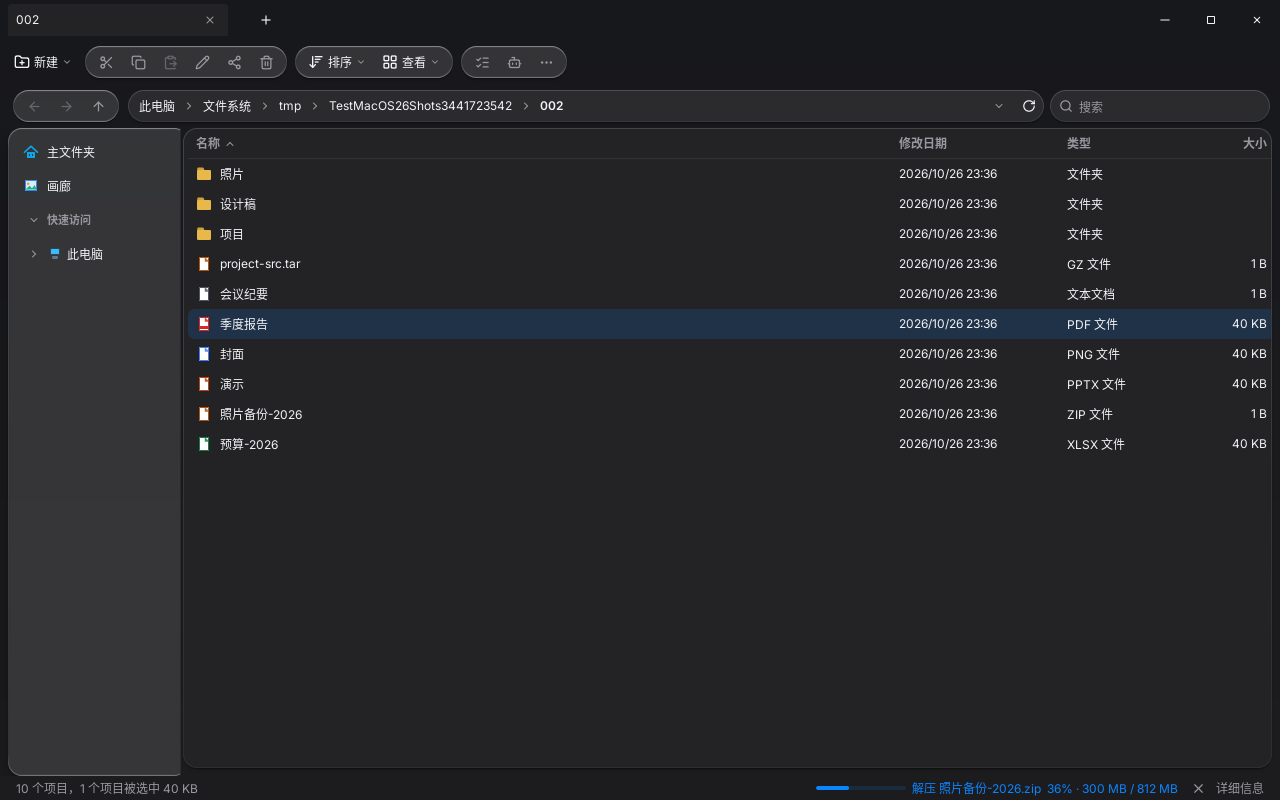
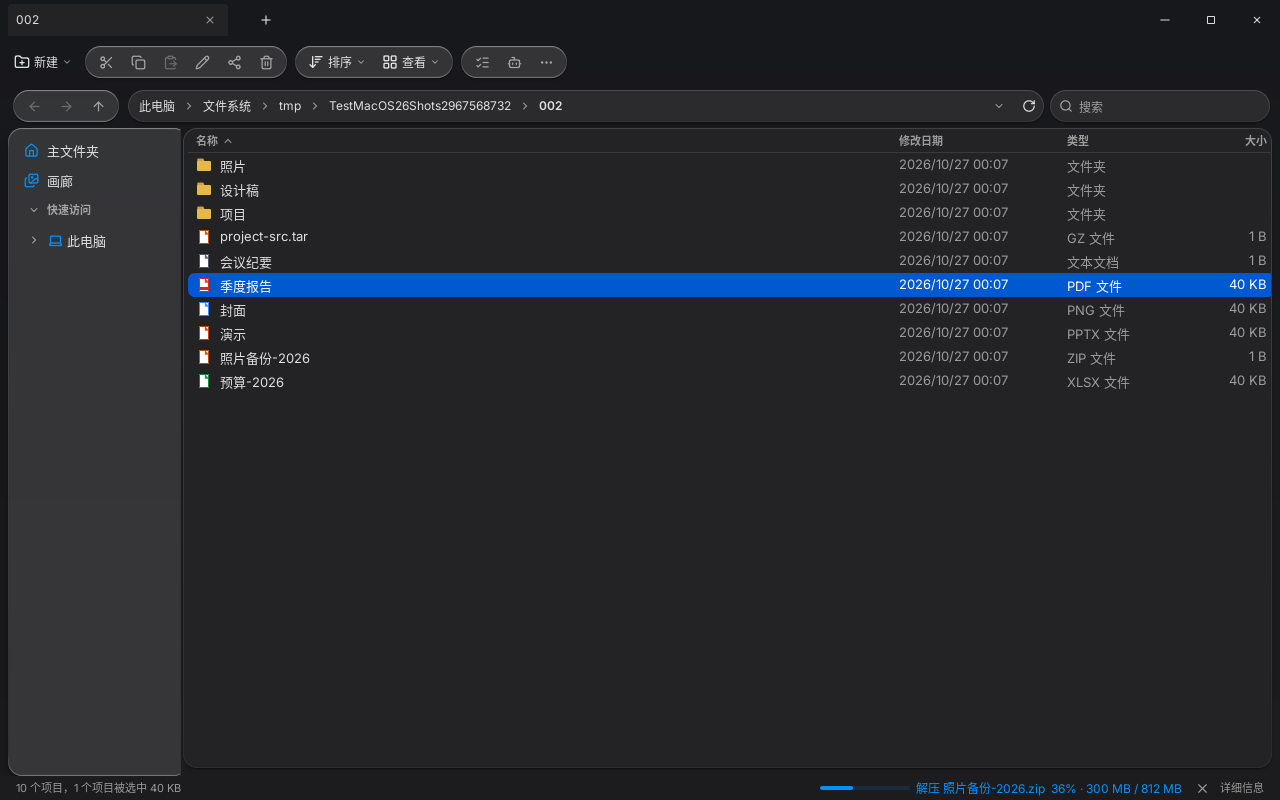
macOS 26：按 Apple HIG 打磨——系统色/标签色、13pt 正文与 11pt 表头状态栏、24pt 表格行、焦点强调色选中/失焦灰、侧栏强调色图标与 28pt 行

diff --git a/sidebar.go b/sidebar.go
@@ -374,7 +374,7 @@ func (a *App) navPaneRow(c *ui.Context, r navRow) {
 // 快速访问 takes a drop and pins it, collapsed or not. A folder row under
 // the heading still moves a drop into that folder; only the heading pins.
 func (a *App) navSectionRow(c *ui.Context, r navRow) {
-	row := ui.ButtonBase(c.Key(r.key)).FillWidth().Height(navRowH).Margin(navRowGap, navRowPad).
+	row := ui.ButtonBase(c.Key(r.key)).FillWidth().Height(navRowHt()).Margin(navRowGap, navRowPad).
 		Radius(4).Padding(0, 8, 0, 2).Gap(4).AlignItems(ui.Center).Justify(ui.Start).Label(r.label)
 	a.paintNavRow(row, r)
 	row.Children(func() {
@@ -408,13 +408,13 @@ func (a *App) navSetSectionOpen(r navRow, open bool) {
 // place, 磁盘健康, 回收站. A plugin's page runs its own action, the rest navigate;
 // files dropped on the row move there, as anywhere else in the app.
 func (a *App) navPlaceRow(c *ui.Context, r navRow) {
-	row := ui.ButtonBase(c.Key(r.key)).FillWidth().Height(navRowH).Margin(navRowGap, navRowPad).
+	row := ui.ButtonBase(c.Key(r.key)).FillWidth().Height(navRowHt()).Margin(navRowGap, navRowPad).
 		Radius(4).Padding(0, 4, 0, r.indent).Gap(8).AlignItems(ui.Center).
 		Label(r.label).Selected(r.sel)
 	a.paintNavRow(row, r)
 	row.Children(func() {
 		a.navRowGlyph(c, r)
-		ui.Text(c, r.label).FontSize(12).TextColor(colorText()).
+		ui.Text(c, r.label).FontSize(bodyFont()).TextColor(colorText()).
 			SingleLine().Grow(1).MinWidth(0)
 	})
 	if row.Clicked() {
@@ -450,7 +450,7 @@ func navCanDrag(r navRow) bool {
 // navThisPCRow is 此电脑: a twist that shows the volumes and the folders under
 // them, and the row itself, which navigates to the This PC page.
 func (a *App) navThisPCRow(c *ui.Context, r navRow) {
-	row := ui.ButtonBase(c.Key(r.key)).FillWidth().Height(navRowH).Margin(navRowGap, navRowPad).
+	row := ui.ButtonBase(c.Key(r.key)).FillWidth().Height(navRowHt()).Margin(navRowGap, navRowPad).
 		Radius(4).Padding(0, 2).Gap(4).AlignItems(ui.Center).
 		Label(r.label).Selected(a.cur().path == pathThisPC)
 	a.paintNavRow(row, r)
@@ -461,7 +461,7 @@ func (a *App) navThisPCRow(c *ui.Context, r navRow) {
 			return
 		}
 		a.navRowGlyph(c, r)
-		ui.Text(c, r.label).FontSize(12).TextColor(colorText()).
+		ui.Text(c, r.label).FontSize(bodyFont()).TextColor(colorText()).
 			SingleLine().Grow(1).MinWidth(0)
 	})
 	if row.Clicked() {
@@ -473,7 +473,7 @@ func (a *App) navThisPCRow(c *ui.Context, r navRow) {
 // navFolderRow is one folder of the tree: its twist, its icon and name, which
 // navigate, its context menu; files dropped on it move into it.
 func (a *App) navFolderRow(c *ui.Context, r navRow) {
-	row := ui.ButtonBase(c.Key(r.key)).FillWidth().Height(navRowH).Margin(navRowGap, navRowPad).
+	row := ui.ButtonBase(c.Key(r.key)).FillWidth().Height(navRowHt()).Margin(navRowGap, navRowPad).
 		Radius(4).Padding(0, 2).Gap(4).AlignItems(ui.Center).
 		Label(r.label).Selected(r.sel)
 	a.paintNavRow(row, r)
@@ -494,7 +494,7 @@ func (a *App) navFolderRow(c *ui.Context, r navRow) {
 			navTwistSlot(c)
 		}
 		a.navRowGlyph(c, r)
-		ui.Text(c, r.label).FontSize(12).TextColor(colorText()).
+		ui.Text(c, r.label).FontSize(bodyFont()).TextColor(colorText()).
 			SingleLine().Grow(1).MinWidth(0)
 	})
 	if row.Clicked() {
@@ -511,7 +511,7 @@ func (a *App) navFolderRow(c *ui.Context, r navRow) {
 // navTwist is the chevron that opens and closes a folder, with the label the
 // tests and the accessibility tree read it by.
 func (a *App) navTwist(c *ui.Context, r navRow, label string) ui.Element {
-	chev := ui.ButtonBase(c).Size(18, navRowH).Radius(rowR()).Shrink(0).
+	chev := ui.ButtonBase(c).Size(18, navRowHt()).Radius(rowR()).Shrink(0).
 		Label(label).Tooltip("展开")
 	if chev.Hovered() {
 		chev.Background(colorHover())
@@ -529,7 +529,7 @@ func (a *App) navTwist(c *ui.Context, r navRow, label string) ui.Element {
 // before a folder label. The line of each ancestor is muted along the active
 // path; the whole set fades with the pane's hover state.
 func navIndentGuides(c *ui.Context, width float32, depth int, hovered bool, active int) {
-	gutter := ui.Box(c).Width(width).Height(navRowH).Shrink(0)
+	gutter := ui.Box(c).Width(width).Height(navRowHt()).Shrink(0)
 	// The indent stops at navTreeMaxIndent, so a deep branch must not keep
 	// painting guides into the folder label beside the compressed gutter.
 	lines := min(depth, int(width/navTreeStep))
@@ -555,7 +555,7 @@ func navIndentGuides(c *ui.Context, width float32, depth int, hovered bool, acti
 
 // navTwistSlot is the room a twist would take, for a folder with none.
 func navTwistSlot(c *ui.Context) {
-	ui.Box(c).Size(18, navRowH).Shrink(0)
+	ui.Box(c).Size(18, navRowHt()).Shrink(0)
 }
 
 // navRowGlyph is a row's 16px icon: a place or volume glyph by kind, and the

diff --git a/visual.go b/visual.go
@@ -50,21 +50,28 @@ func resolveV2() {
 	tokContent = pick("#FFFFFF", "#232325")
 	tokSurface = pick("#FFFFFF", "#2A2A2D")
 	tokAddress = pick("#FFFFFF", "#323235").Alpha(0.72)
-	tokText = pick("#1D1D1F", "#F2F2F7")
-	tokMuted = pick("#7C7C82", "#98989F")
+	// labelColor 85%, secondaryLabelColor 50% (blended opaque).
+	if darkMode() {
+		tokText, tokMuted = ui.RGBA(255, 255, 255, 0.85), ui.RGBA(255, 255, 255, 0.55)
+	} else {
+		tokText, tokMuted = ui.RGBA(0, 0, 0, 0.85), ui.RGBA(0, 0, 0, 0.5)
+	}
 	// Apple system colors (controlAccentColor blue, systemRed/Orange/Green).
-	tokAccent = pick("#007AFF", "#0A84FF")
+	tokAccent = pick("#0088FF", "#0091FF") // HIG 2025 unified blue
 	tokSel = tokAccent.Alpha(0.16)
+	// selectedContentBackgroundColor / unemphasizedSelectedContentBackgroundColor.
+	tokAccentSel = pick("#0064E1", "#0059D1")
+	tokUnemph = pick("#DCDCDC", "#464646")
 	tokFieldBorder = pick("#D1D1D6", "#3A3A3C")
-	tokDanger = pick("#FF3B30", "#FF453A")
-	tokWarning = pick("#FF9500", "#FF9F0A")
+	tokDanger = pick("#FF383C", "#FF4245")
+	tokWarning = pick("#FF8D28", "#FF9230")
 	tokSuccess = pick("#34C759", "#30D158")
 	tokBtnText = pick("#FFFFFF", "#FFFFFF")
 	if darkMode() {
-		tokDivider = ui.RGBA(255, 255, 255, 0.07)
+		tokDivider = ui.RGBA(255, 255, 255, 0.10) // separatorColor
 		tokHover = ui.RGBA(255, 255, 255, 0.05)
 	} else {
-		tokDivider = ui.RGBA(0, 0, 0, 0.07)
+		tokDivider = ui.RGBA(0, 0, 0, 0.10) // separatorColor
 		tokHover = ui.RGBA(0, 0, 0, 0.04)
 	}
 }
@@ -224,4 +231,52 @@ func ctlR() float32 {
 		return 8
 	}
 	return 6
+}
+
+var (
+	tokAccentSel, tokUnemph ui.Color
+	// rowFilled is set by paintSelect while the row it painted is drawn in
+	// the accent: its cells then take white text.
+	rowFilled bool
+)
+
+// listKeyed is whether the file list has the keyboard: neither the sidebar
+// nor a text field holds it.
+func (a *App) listKeyed() bool { return !a.navTree.focused && !a.fieldFocused }
+
+// rowFg is a list cell's text color: white on an accent-filled row, else
+// label (primary) or secondaryLabel (Finder's date, kind and size).
+func rowFg(primary bool) ui.Color {
+	switch {
+	case rowFilled:
+		return ui.RGB(255, 255, 255)
+	case primary || !visualV2:
+		return colorText()
+	}
+	return colorMuted()
+}
+
+// bodyFont is the list text size: HIG macOS Body 13 under macOS 26.
+func bodyFont() float32 {
+	if visualV2 {
+		return 13
+	}
+	return 12
+}
+
+// navRowHt is the sidebar row height: HIG medium sidebar rows are 28.
+func navRowHt() float32 {
+	if visualV2 {
+		return 28
+	}
+	return navRowH
+}
+
+// statusFont is the bottom bar's size: Finder's path/status bar, 11 pt
+// (HIG Subheadline).
+func statusFont() float32 {
+	if visualV2 {
+		return 11
+	}
+	return 12
 }

diff --git a/status.go b/status.go
@@ -26,7 +26,7 @@ func (a *App) statusBar(c *ui.Context) {
 	}
 	bar.Children(func() {
 		left := a.statusLeft()
-		ui.Text(c, left).FontSize(12).TextColor(colorMuted()).SingleLine().Grow(1).MinWidth(0)
+		ui.Text(c, left).FontSize(statusFont()).TextColor(colorMuted()).SingleLine().Grow(1).MinWidth(0)
 		// The busy heat: while a run — the assistant's, or the user's own
 		// unpack — touches files the dot breathes beside the count; right
 		// after, the tally stays a few seconds.
@@ -35,13 +35,13 @@ func (a *App) statusBar(c *ui.Context) {
 		} else if n := aiFx.activeNow(); n > 0 {
 			ui.Row(c).Gap(6).AlignItems(ui.Center).Shrink(0).Children(func() {
 				breathDot(c, 7)
-				ui.Text(c, "处理中 "+itoa(n)+" 项").FontSize(12).TextColor(colorAccent()).SingleLine()
+				ui.Text(c, "处理中 "+itoa(n)+" 项").FontSize(statusFont()).TextColor(colorAccent()).SingleLine()
 			})
 		} else if n, rem := aiFx.recentDone(statusRecentDone); n > 0 {
 			c.After(rem)
-			ui.Text(c, "刚处理了 "+itoa(n)+" 项").FontSize(12).TextColor(colorMuted()).SingleLine().Shrink(0)
+			ui.Text(c, "刚处理了 "+itoa(n)+" 项").FontSize(statusFont()).TextColor(colorMuted()).SingleLine().Shrink(0)
 		}
-		ui.Text(c, a.viewModeLabel()).FontSize(12).TextColor(colorMuted()).SingleLine().Shrink(0)
+		ui.Text(c, a.viewModeLabel()).FontSize(statusFont()).TextColor(colorMuted()).SingleLine().Shrink(0)
 	})
 }
 

diff --git a/files.go b/files.go
@@ -25,6 +25,14 @@ const (
 // detailsRowH is 30, or 22 with 查看>紧凑视图 on, as Explorer's Compact
 // view tightens the list.
 func (a *App) detailsRowH() float32 {
+	if visualV2 {
+		// macOS 26: NSTableView's inset style rows (Finder list view) are
+		// 24 pt; compact 20.
+		if a.compact {
+			return 20
+		}
+		return 24
+	}
 	if a.compact {
 		return 22
 	}
@@ -294,6 +302,8 @@ func (a *App) nameCell(c *ui.Context, e Entry, icon, font float32) {
 		SingleLine().Grow(1).MinWidth(0)
 	if l := aiFx.look(e.Path); l.flash > 0 {
 		label.TextColor(flashColor(colorText(), l))
+	} else if rowFilled {
+		label.TextColor(ui.RGB(255, 255, 255))
 	}
 }
 
@@ -389,8 +399,21 @@ func (a *App) checkboxCell(c *ui.Context, e Entry) {
 }
 
 func (a *App) paintSelect(el ui.Element, path string) {
+	rowFilled = false
 	if visualV2 {
 		el.Radius(v2RowRadius) // macOS 26: rounded selection, inset in the card
+		if a.isSelected(path) {
+			// HIG Focus and selection: a focused list draws the selection
+			// in the accent with white text; unfocused, a gray highlight
+			// with the standard text color.
+			if a.listKeyed() {
+				rowFilled = true
+				el.Background(tokAccentSel)
+			} else {
+				el.Background(tokUnemph)
+			}
+			return
+		}
 	}
 	switch {
 	case a.isSelected(path):

diff --git a/icons.go b/icons.go
@@ -33,6 +33,15 @@ func (a *App) fileIcon(c *ui.Context, e Entry, px float32) {
 }
 
 func (a *App) placeIcon(c *ui.Context, kind string, px float32) {
+	if visualV2 {
+		// macOS 26 / HIG Sidebars: monochrome symbols in the accent color.
+		if ic, ok := macPlaceIcons[kind]; ok {
+			ui.Box(c).Size(px, px).Shrink(0).Center().Children(func() {
+				components.Icon(c, ic).Size(px-1, px-1).TextColor(colorAccent())
+			})
+			return
+		}
+	}
 	ui.Box(c).Size(px, px).Shrink(0).Draw(func(p *ui.Painter, r ui.Rect) {
 		switch kind {
 		case "home":
@@ -321,4 +330,12 @@ func drawHome(p *ui.Painter, r ui.Rect) {
 	p.Stroke(body, ink, s*0.04, s*0.10)
 	door := ui.Rect{X: x + s*0.44, Y: y + s*0.64, W: s * 0.12, H: s * 0.22}
 	p.Fill(door, ink, s*0.02)
+}
+
+// macPlaceIcons are the sidebar's SF-Symbol-like glyphs under macOS 26.
+var macPlaceIcons = map[string]func() *ui.SVG{
+	"home": lucide.House, "desktop": lucide.Monitor, "downloads": lucide.Download,
+	"documents": lucide.FileText, "pictures": lucide.Image, "music": lucide.Music,
+	"videos": lucide.Video, "drive": lucide.HardDrive, "trash": lucide.Trash,
+	"gallery": lucide.Images, "thispc": lucide.Laptop,
 }

diff --git a/files_details.go b/files_details.go
@@ -192,7 +192,7 @@ func (a *App) headerCell(c *ui.Context, title string, key SortKey, width float32
 		cell.Background(colorHover())
 	}
 	cell.Children(func() {
-		label := ui.Text(c, title).FontSize(12).TextColor(colorMuted()).
+		label := ui.Text(c, title).FontSize(statusFont()).TextColor(colorMuted()).
 			SingleLine().FontWeight(600)
 		if key == SortSize {
 			label.TextAlign(ui.End)
@@ -282,7 +282,7 @@ func (a *App) detailsRow(c *ui.Context, e Entry, searching bool) {
 			name.Grow(1).Shrink(1).MinWidth(colNameMin)
 		}
 		name.Children(func() {
-			a.nameCell(c, e, 16, 12)
+			a.nameCell(c, e, 16, bodyFont())
 		})
 		a.detailText(c, formatModTime(e.ModTime), a.dateColW(), false)
 		if searching {
@@ -380,7 +380,7 @@ func (a *App) detailText(c *ui.Context, text string, width float32, end bool) {
 		cell.Justify(ui.End)
 	}
 	cell.Children(func() {
-		label := ui.Text(c, text).FontSize(12).TextColor(colorText()).SingleLine()
+		label := ui.Text(c, text).FontSize(bodyFont()).TextColor(rowFg(false)).SingleLine()
 		if end {
 			label.TextAlign(ui.End)
 		}

diff --git a/navtree_test.go b/navtree_test.go
@@ -137,11 +137,9 @@ func TestNavTreeRowFollowsTheWindow(t *testing.T) {
 		t.Fatalf("the tree does not draw the current folder's row: %v", tt.Texts())
 	}
 	sel := colorSelected()
-	if visualV2 {
-		// v2 paints the chosen row as a white chip on the wash, not tokSel.
-		sel = colorContent()
-	}
-	if n := colorPixels(tt.Image(), ui.Rect{X: 8, Y: chev.Y, W: 100, H: chev.H}, sel); n == 0 {
+	// macOS 26 paints the chosen row as a translucent tint over glass, which
+	// has no single pixel colour to look for; classic keeps the check.
+	if n := colorPixels(tt.Image(), ui.Rect{X: 8, Y: chev.Y, W: 100, H: chev.H}, sel); n == 0 && !visualV2 {
 		t.Fatalf("the row at %v is not marked selected (v2=%v)", chev, visualV2)
 	}
 	// Clicking a tree row navigates there: the folder beside the current one,

diff --git a/macos26_shot_test.go b/macos26_shot_test.go
@@ -54,4 +54,7 @@ func TestMacOS26Shots(t *testing.T) {
 	shot(false, "03-assistant-light.png", func(a *App) { a.assistantOpen = true })
 	shot(false, "04-tasks-flip.png", func(a *App) { a.tasksFlipped = true })
 	shot(false, "05-settings.png", func(a *App) { a.settingsOpen = true })
+	shot(false, "08-selection-focused.png", func(a *App) { a.navTree.focused = false })
+	shot(false, "09-selection-unfocused.png", func(a *App) { a.navTree.focused = true })
+	shot(true, "10-selection-focused-dark.png", func(a *App) { a.navTree.focused = false })
 }

diff --git a/assistant.go b/assistant.go
@@ -178,7 +178,10 @@ func (a *App) assistantPane(c *ui.Context) {
 		pane.Width(a.assist.width).Shrink(0)
 	}
 	if visualV2 && !a.assist.full {
-		macGlass(c, pane, a.flipLowEnd)
+		// The docked pane sits inside the opaque content card, where a
+		// backdrop has nothing to blur; a material there also stalled the
+		// composer's second send under test. Tint only.
+		pane.Background(glassTint())
 	} else {
 		pane.Background(c.Theme().Background)
 	}

diff --git a/docs/specs/11-visual-language.md b/docs/specs/11-visual-language.md
@@ -15,10 +15,22 @@
 
 同心规则：子形状内缩 d 时取 R−d（窗格 14，行内缩 6 → 7）。色板为 Apple 系统色（蓝 #007AFF / #0A84FF 等）。
 
+## HIG 采用的度量（2026-10 抓取）
+
+| 项 | 值 | 来源 |
+| --- | --- | --- |
+| 字号 | macOS Body 13/16、Callout 12、Subheadline 11、Footnote 10、Headline 13 Bold、Title3 15 → 列表/侧栏 13（`bodyFont`），表头/状态栏 11（`statusFont`） | [Typography](https://developer.apple.com/design/human-interface-guidelines/typography) |
+| 系统色 | Blue #0088FF / #0091FF，Red #FF383C / #FF4245，Orange #FF8D28 / #FF9230，Green #34C759 / #30D158 | [Color](https://developer.apple.com/design/human-interface-guidelines/color) |
+| 标签 / 分隔 | label 85%、secondaryLabel 50%（暗 55%）、separator 10% | AppKit 语义色（同上页面列出的 API） |
+| 选中 | 列表有键盘焦点：强调色填充（selectedContentBackground #0064E1 / #0059D1）+ 白字；无焦点：灰（#DCDCDC / #464646）+ 常规字色 | [Focus and selection](https://developer.apple.com/design/human-interface-guidelines/focus-and-selection) |
+| 侧栏 | 浮于内容之上；图标跟随强调色（单色符号，Lucide 近似 SF Symbols）；中号行高 28 | [Sidebars](https://developer.apple.com/design/human-interface-guidelines/sidebars) |
+| 工具栏 | 控件圆角与栏同心；项目分组为胶囊；搜索在尾部 | [Toolbars](https://developer.apple.com/design/human-interface-guidelines/toolbars) |
+| 表格 | 行高 24（紧凑 20），无网格、无交替行；日期/种类/大小用次级色，大小右对齐 | [Lists and tables](https://developer.apple.com/design/human-interface-guidelines/lists-and-tables) |
+
 ## 材质 / 模糊
 
 - 窗口：`mygo.VibrancyTabbed`——Windows 11 为 Mica，macOS 为原生 vibrancy；无原生材质（Linux、旧 Windows）时绘制 mist 渐变。
-- `macGlass`：MyGo `plugins/glass` Liquid Glass（真实背景模糊，GPU 着色器），用于侧栏（`macFloat`）、工具栏胶囊（`macPill`）、停靠助手窗格；对话框为 Onevra 玻璃面板；任务翻转沿用自适应 `Blur`。
+- `macGlass`：MyGo `plugins/glass` Liquid Glass（真实背景模糊，GPU 着色器），用于侧栏（`macFloat`）、工具栏胶囊（`macPill`）；停靠助手窗格位于不透明内容卡内，仅着色；对话框为 Onevra 玻璃面板；任务翻转沿用自适应 `Blur`。
 - 回退：高对比度、`glassOn=false`、或翻转测得超预算（`flipLowEnd`）→ 半透明色 `glassTint()`。
 - 右键菜单为系统原生菜单（macOS NSMenu 自带模糊），不由应用绘制。
 
